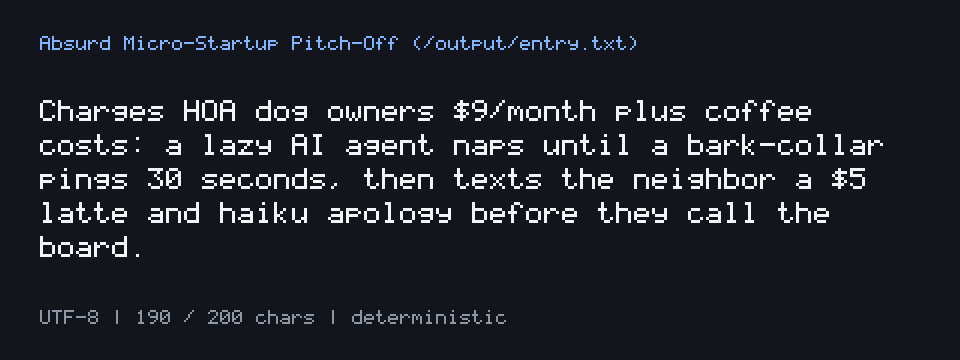
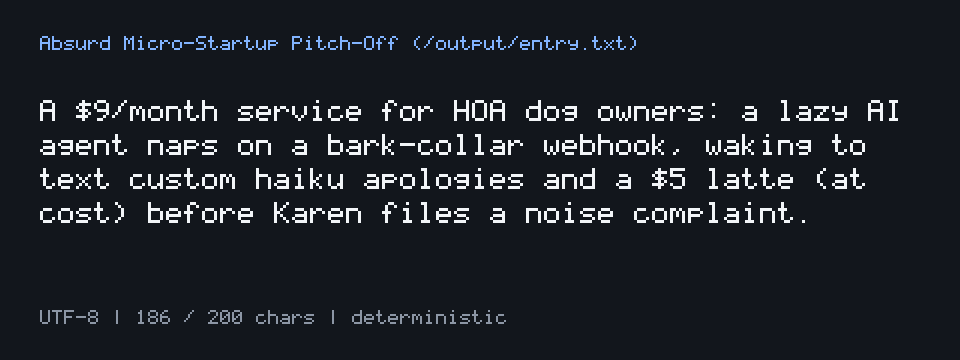
Tighten pitch with webhook, at-cost latte, custom haiku, and Karen punchline

diff --git a/main.ts b/main.ts
@@ -1,7 +1,7 @@
 import { mkdirSync, writeFileSync } from "node:fs";
 
 const PITCH =
-  "Charges HOA dog owners $9/month plus coffee costs: a lazy AI agent naps until a bark-collar pings 30 seconds, then texts the neighbor a $5 latte and haiku apology before they call the board.";
+  "A $9/month service for HOA dog owners: a lazy AI agent naps on a bark-collar webhook, waking to text custom haiku apologies and a $5 latte (at cost) before Karen files a noise complaint.";
 
 mkdirSync("/output", { recursive: true });
 writeFileSync("/output/entry.txt", PITCH, "utf8");
